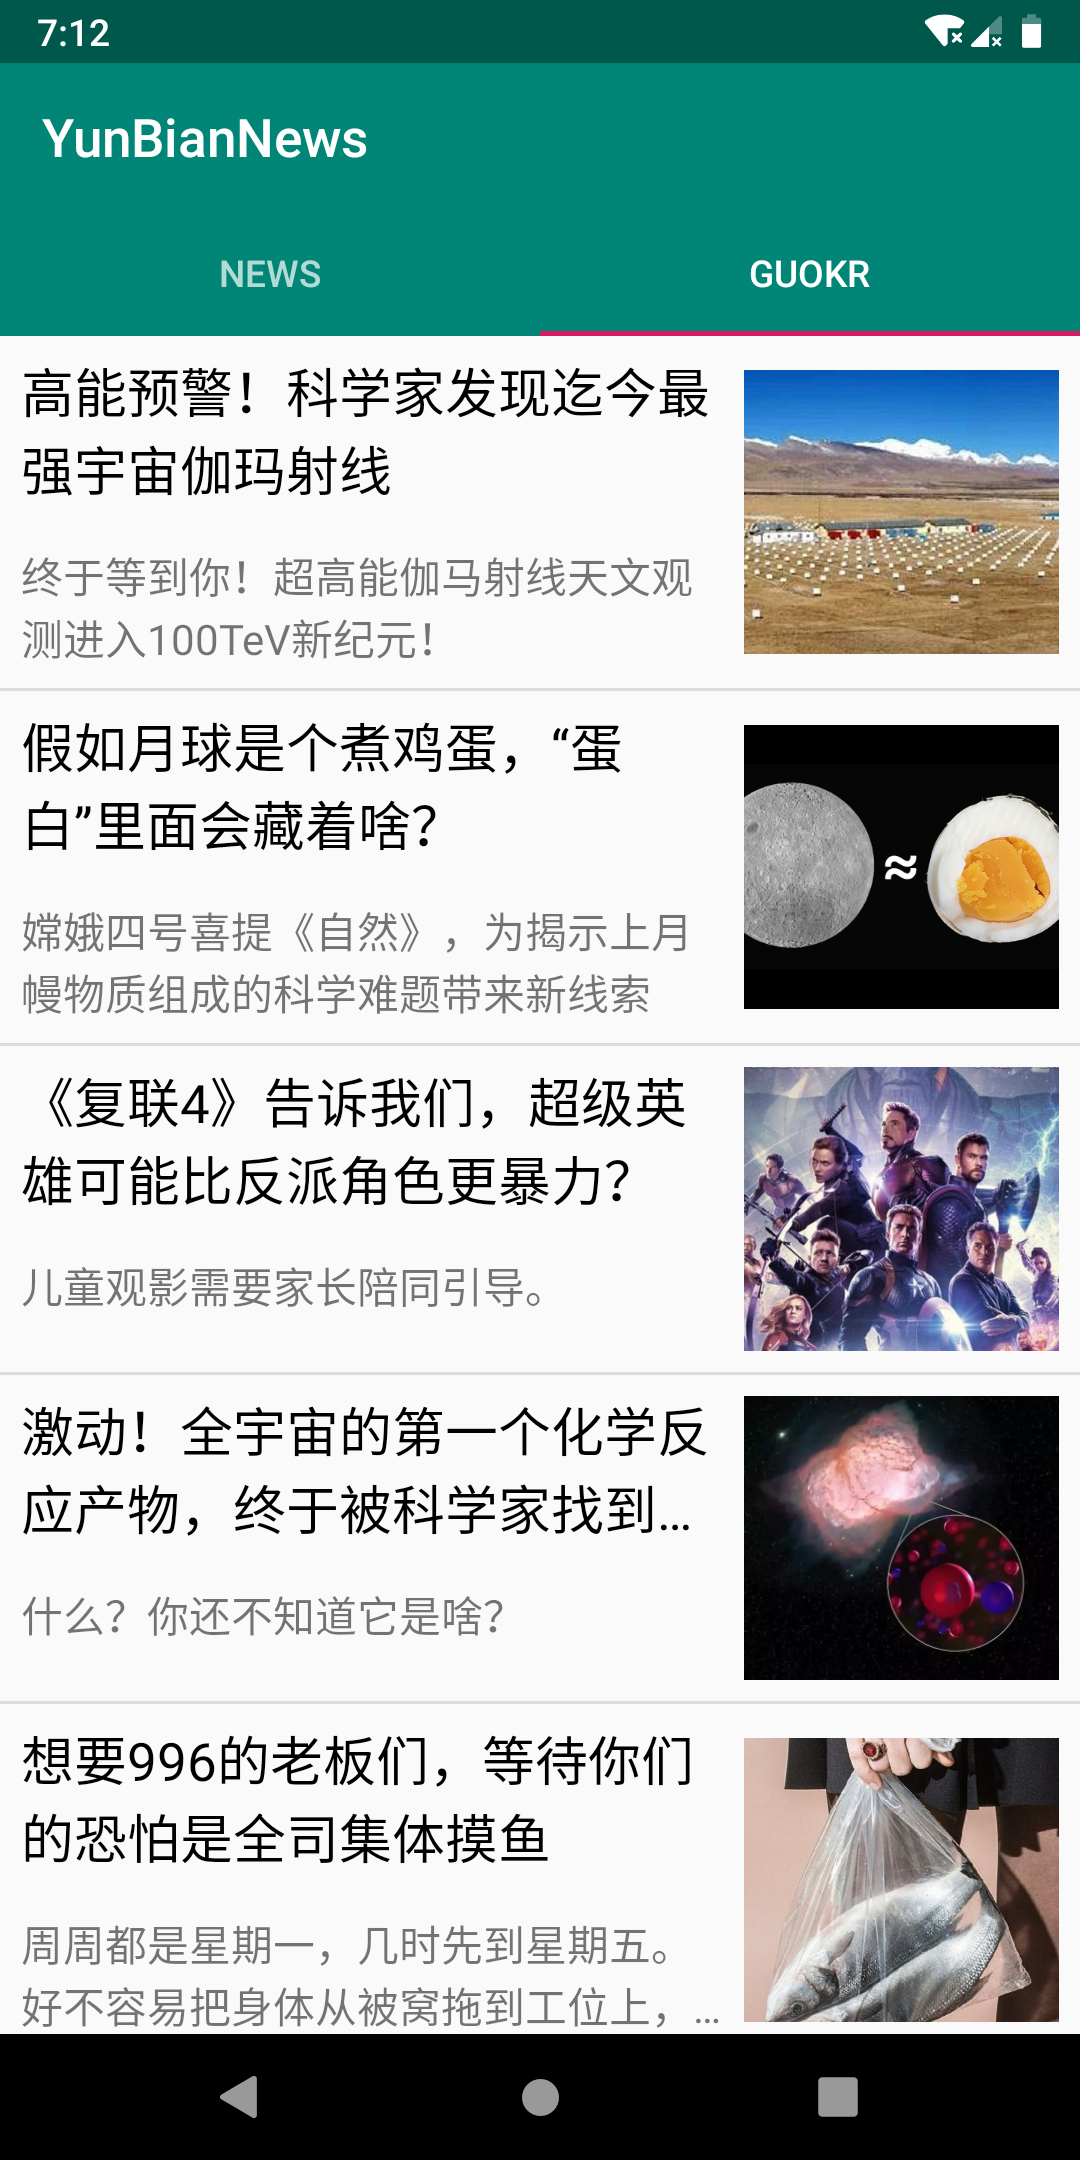
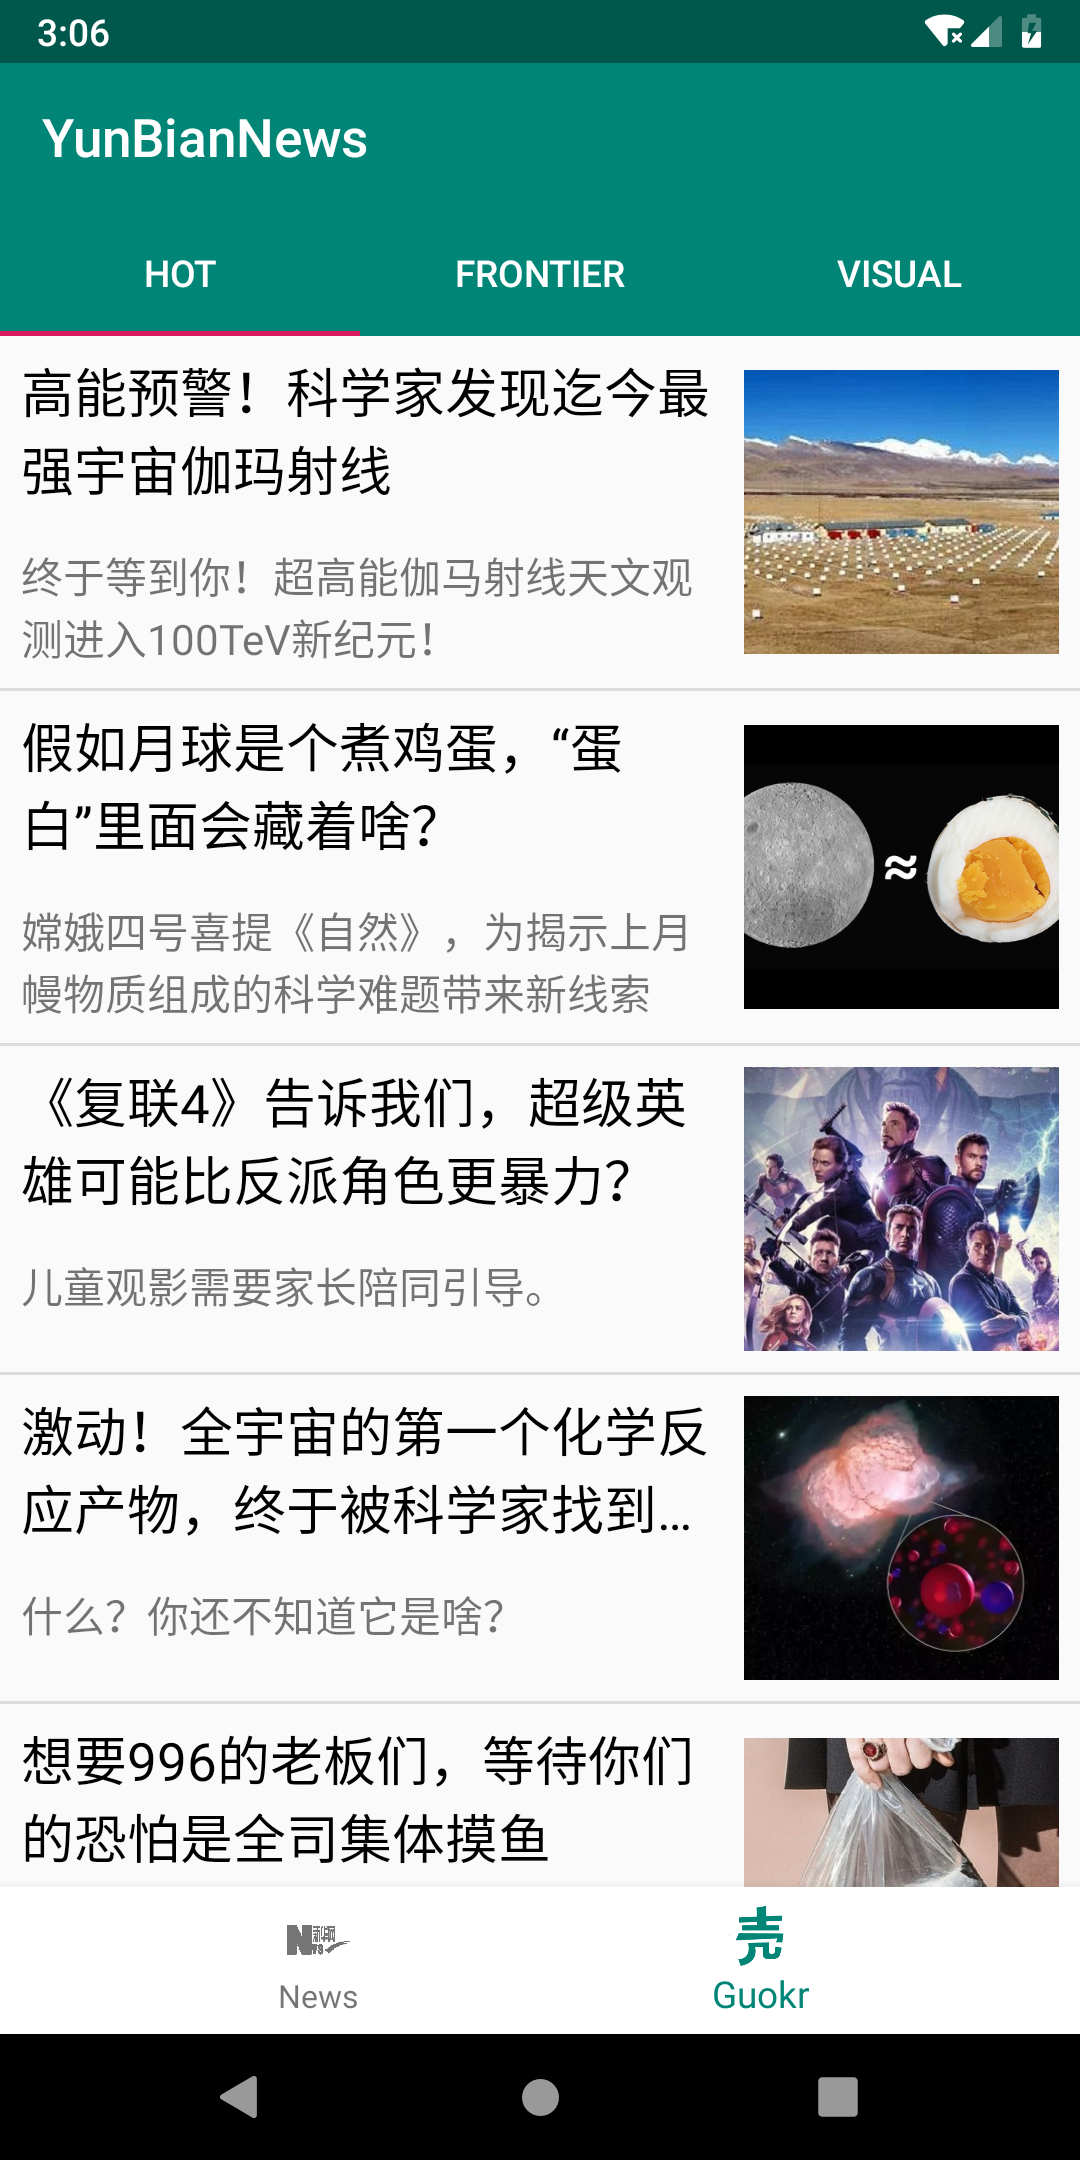
fix the problem about app crashes after rotationg screen and add quick refresh

diff --git a/app/src/main/java/com/petits_raids/yunbiannews/ui/activity/MainActivity.java b/app/src/main/java/com/petits_raids/yunbiannews/ui/activity/MainActivity.java
@@ -11,9 +11,7 @@ import androidx.viewpager.widget.ViewPager;
 import com.google.android.material.bottomnavigation.BottomNavigationView;
 import com.petits_raids.yunbiannews.R;
 import com.petits_raids.yunbiannews.support.adapter.ViewPagerAdapter;
-import com.petits_raids.yunbiannews.ui.fragment.guokr.GuokrFragment;
 import com.petits_raids.yunbiannews.ui.fragment.guokr.GuokrPagerFragment;
-import com.petits_raids.yunbiannews.ui.fragment.news.NewsFragment;
 import com.petits_raids.yunbiannews.ui.fragment.news.NewsPagerFragment;
 
 import java.util.ArrayList;
@@ -21,12 +19,13 @@ import java.util.List;
 
 public class MainActivity extends AppCompatActivity {
 
-    private static final String TAG = "MainActivity";
-
     private Toolbar toolbar;
     private BottomNavigationView bottomNavigationView;
+    private NewsPagerFragment newsPagerFragment;
+    private GuokrPagerFragment guokrPagerFragment;
     private ViewPager viewPager;
     private MenuItem menuItem;
+    private int currentPage = 0;
 
     @Override
     protected void onCreate(Bundle savedInstanceState) {
@@ -43,8 +42,10 @@ public class MainActivity extends AppCompatActivity {
         viewPager = findViewById(R.id.view_pager);
 
         List<Fragment> fragmentList = new ArrayList<>();
-        fragmentList.add(new NewsPagerFragment());
-        fragmentList.add(new GuokrPagerFragment());
+        newsPagerFragment = new NewsPagerFragment();
+        guokrPagerFragment = new GuokrPagerFragment();
+        fragmentList.add(newsPagerFragment);
+        fragmentList.add(guokrPagerFragment);
         List<String> titleList = new ArrayList<>();
         titleList.add("News");
         titleList.add("Guokr");
@@ -52,6 +53,7 @@ public class MainActivity extends AppCompatActivity {
         ViewPagerAdapter adapter =
                 new ViewPagerAdapter(getSupportFragmentManager(), fragmentList, titleList);
         viewPager.setAdapter(adapter);
+        viewPager.setOffscreenPageLimit(2);
         viewPager.addOnPageChangeListener(new ViewPager.OnPageChangeListener() {
             @Override
             public void onPageScrolled(int position, float positionOffset, int positionOffsetPixels) {
@@ -78,9 +80,17 @@ public class MainActivity extends AppCompatActivity {
             switch (item.getItemId()) {
                 case R.id.news_navigation:
                     viewPager.setCurrentItem(0, true);
+                    if (currentPage == 0) {
+                        newsPagerFragment.refreshData();
+                    }
+                    currentPage = 0;
                     break;
                 case R.id.guokr_navigation:
                     viewPager.setCurrentItem(1, true);
+                    if (currentPage == 1) {
+                        guokrPagerFragment.refreshData();
+                    }
+                    currentPage = 1;
                     break;
                 default:
                     break;

diff --git a/app/src/main/java/com/petits_raids/yunbiannews/ui/fragment/news/NewsFragment.java b/app/src/main/java/com/petits_raids/yunbiannews/ui/fragment/news/NewsFragment.java
@@ -26,18 +26,12 @@ import java.util.List;
 
 public class NewsFragment extends Fragment {
 
-    private static final String TAG = "NewsFragment";
-
     private NewsViewModel newsViewModel;
     private NewsAdapter adapter;
     private List<News> newsList = new ArrayList<>();
     private SwipeRefreshLayout swipeRefresh;
     private boolean isRefreshing;
     private int newsType;
-
-    NewsFragment(int newsType) {
-        this.newsType = newsType;
-    }
 
     @Nullable
     @Override
@@ -51,6 +45,9 @@ public class NewsFragment extends Fragment {
                 new DividerItemDecoration(getContext(), manager.getOrientation());
         recyclerView.addItemDecoration(decoration);
 
+        if (getArguments() != null) {
+            newsType = getArguments().getInt("type");
+        }
         newsViewModel = ViewModelProviders.of(this).get(NewsViewModel.class);
         newsViewModel.setType(getNewsType());
         newsViewModel.getAllNews();
@@ -68,6 +65,7 @@ public class NewsFragment extends Fragment {
             if (isRefreshing) {
                 swipeRefresh.setRefreshing(false);
                 isRefreshing = false;
+                recyclerView.smoothScrollToPosition(0);
                 Toast.makeText(getContext(), R.string.data_updated, Toast.LENGTH_SHORT).show();
             }
         };
@@ -75,19 +73,17 @@ public class NewsFragment extends Fragment {
 
         swipeRefresh = view.findViewById(R.id.swipe_refresh);
         swipeRefresh.setColorSchemeResources(R.color.colorAccent);
-        swipeRefresh.setOnRefreshListener(() -> {
-            newsViewModel.updateNews();
-            isRefreshing = true;
-            swipeRefresh.setRefreshing(true);
-        });
+        swipeRefresh.setOnRefreshListener(this::refreshData);
         return view;
     }
 
-    protected void setNewsType(int type) {
-        newsType = type;
+    void refreshData() {
+        newsViewModel.updateNews();
+        isRefreshing = true;
+        swipeRefresh.setRefreshing(true);
     }
 
-    protected int getNewsType() {
+    private int getNewsType() {
         return newsType;
     }
 }

diff --git a/app/src/main/java/com/petits_raids/yunbiannews/ui/fragment/news/NewsPagerFragment.java b/app/src/main/java/com/petits_raids/yunbiannews/ui/fragment/news/NewsPagerFragment.java
@@ -1,5 +1,7 @@
 package com.petits_raids.yunbiannews.ui.fragment.news;
 
+import android.os.Bundle;
+
 import com.petits_raids.yunbiannews.api.NewsApi;
 import com.petits_raids.yunbiannews.ui.fragment.PagerFragment;
 
@@ -7,13 +9,34 @@ public class NewsPagerFragment extends PagerFragment {
 
     @Override
     protected void initFragmentList() {
-        fragmentList.add(new NewsFragment(NewsApi.LOCAL_NEWS));
-        fragmentList.add(new NewsFragment(NewsApi.WORLD_NEWS));
-        fragmentList.add(new NewsFragment(NewsApi.POLITICS_NEWS));
-        fragmentList.add(new NewsFragment(NewsApi.PICTURE_NEWS));
+        NewsFragment localNewsFragment = new NewsFragment();
+        NewsFragment worldNewsFragment = new NewsFragment();
+        NewsFragment politicsNewsFragment = new NewsFragment();
+        NewsFragment pictureNewsFragment = new NewsFragment();
+        Bundle localBundle = new Bundle();
+        localBundle.putInt("type", NewsApi.LOCAL_NEWS);
+        localNewsFragment.setArguments(localBundle);
+        Bundle worldBundle = new Bundle();
+        worldBundle.putInt("type", NewsApi.WORLD_NEWS);
+        worldNewsFragment.setArguments(worldBundle);
+        Bundle politicsBundle = new Bundle();
+        politicsBundle.putInt("type", NewsApi.POLITICS_NEWS);
+        politicsNewsFragment.setArguments(politicsBundle);
+        Bundle pictureBundle = new Bundle();
+        pictureBundle.putInt("type", NewsApi.PICTURE_NEWS);
+        pictureNewsFragment.setArguments(pictureBundle);
+        fragmentList.add(localNewsFragment);
+        fragmentList.add(worldNewsFragment);
+        fragmentList.add(politicsNewsFragment);
+        fragmentList.add(pictureNewsFragment);
         titleList.add("LOCAL");
         titleList.add("WORLD");
         titleList.add("POLITICS");
         titleList.add("PICTURE");
+    }
+
+    public void refreshData() {
+        NewsFragment fragment = (NewsFragment) fragmentList.get(getCurrentPage());
+        fragment.refreshData();
     }
 }

diff --git a/app/src/main/java/com/petits_raids/yunbiannews/ui/fragment/guokr/GuokrFragment.java b/app/src/main/java/com/petits_raids/yunbiannews/ui/fragment/guokr/GuokrFragment.java
@@ -30,10 +30,7 @@ public class GuokrFragment extends Fragment {
     private GuokrAdapter adapter;
     private boolean isFirst = true;
     private int guokrType;
-
-    GuokrFragment(int guokrType) {
-        this.guokrType = guokrType;
-    }
+    private GuokrItemViewModel guokrItemViewModel;
 
     @Nullable
     @Override
@@ -49,12 +46,16 @@ public class GuokrFragment extends Fragment {
         DividerItemDecoration divider = new DividerItemDecoration(getContext(), manager.getOrientation());
         guokrRecyclerView.addItemDecoration(divider);
 
-        GuokrItemViewModel guokrItemViewModel = ViewModelProviders.of(this).get(GuokrItemViewModel.class);
+        if (getArguments() != null) {
+            guokrType = getArguments().getInt("type");
+        }
+        guokrItemViewModel = ViewModelProviders.of(this).get(GuokrItemViewModel.class);
         guokrItemViewModel.setType(guokrType);
         guokrItemViewModel.liveGuokrItemList.observe(this, guokrItems -> {
             guokrItemList.clear();
             guokrItemList.addAll(guokrItems);
             adapter.notifyDataSetChanged();
+            guokrRecyclerView.smoothScrollToPosition(0);
             if (isFirst)
                 return;
             refreshLayout.setRefreshing(false);
@@ -63,15 +64,14 @@ public class GuokrFragment extends Fragment {
 
         refreshLayout = view.findViewById(R.id.guokr_swipe_refresh);
         refreshLayout.setColorSchemeResources(R.color.colorAccent);
-        refreshLayout.setOnRefreshListener(() -> {
-            guokrItemViewModel.updateGuokrItem();
-            refreshLayout.setRefreshing(true);
-            isFirst = false;
-        });
+        refreshLayout.setOnRefreshListener(this::refreshData);
         return view;
     }
 
-//    private int getGuokrType() {
-//        return guokrType;
-//    }
+    void refreshData() {
+        guokrItemViewModel.updateGuokrItem();
+        refreshLayout.setRefreshing(true);
+        isFirst = false;
+    }
+
 }

diff --git a/app/src/main/java/com/petits_raids/yunbiannews/ui/fragment/guokr/GuokrPagerFragment.java b/app/src/main/java/com/petits_raids/yunbiannews/ui/fragment/guokr/GuokrPagerFragment.java
@@ -1,16 +1,35 @@
 package com.petits_raids.yunbiannews.ui.fragment.guokr;
 
+import android.os.Bundle;
+
 import com.petits_raids.yunbiannews.api.GuokrApi;
 import com.petits_raids.yunbiannews.ui.fragment.PagerFragment;
 
 public class GuokrPagerFragment extends PagerFragment {
     @Override
     protected void initFragmentList() {
-        fragmentList.add(new GuokrFragment(GuokrApi.HOT));
-        fragmentList.add(new GuokrFragment(GuokrApi.FRONTIER));
-        fragmentList.add(new GuokrFragment(GuokrApi.VISUAL));
+        GuokrFragment hotGuokrFragment = new GuokrFragment();
+        GuokrFragment frontierGuokrFragment = new GuokrFragment();
+        GuokrFragment visualGuokrFragment = new GuokrFragment();
+        Bundle hotBundle = new Bundle();
+        hotBundle.putInt("type", GuokrApi.HOT);
+        hotGuokrFragment.setArguments(hotBundle);
+        Bundle frontierBundle = new Bundle();
+        frontierBundle.putInt("type", GuokrApi.FRONTIER);
+        frontierGuokrFragment.setArguments(frontierBundle);
+        Bundle visualBundle = new Bundle();
+        visualBundle.putInt("type", GuokrApi.VISUAL);
+        visualGuokrFragment.setArguments(visualBundle);
+        fragmentList.add(hotGuokrFragment);
+        fragmentList.add(frontierGuokrFragment);
+        fragmentList.add(visualGuokrFragment);
         titleList.add("HOT");
         titleList.add("FRONTIER");
         titleList.add("VISUAL");
+    }
+
+    public void refreshData() {
+        GuokrFragment fragment = (GuokrFragment) fragmentList.get(getCurrentPage());
+        fragment.refreshData();
     }
 }

diff --git a/app/src/main/java/com/petits_raids/yunbiannews/ui/fragment/PagerFragment.java b/app/src/main/java/com/petits_raids/yunbiannews/ui/fragment/PagerFragment.java
@@ -21,6 +21,7 @@ public abstract class PagerFragment extends Fragment {
 
     private TabLayout tabLayout;
     private ViewPager viewPager;
+    private int currentPage;
     protected List<Fragment> fragmentList = new ArrayList<>();
     protected List<String> titleList = new ArrayList<>();
 
@@ -40,6 +41,26 @@ public abstract class PagerFragment extends Fragment {
         initFragmentList();
         ViewPagerAdapter adapter = new ViewPagerAdapter(getChildFragmentManager(), fragmentList, titleList);
         viewPager.setAdapter(adapter);
+        viewPager.addOnPageChangeListener(new ViewPager.OnPageChangeListener() {
+            @Override
+            public void onPageScrolled(int position, float positionOffset, int positionOffsetPixels) {
+
+            }
+
+            @Override
+            public void onPageSelected(int position) {
+                currentPage = position;
+            }
+
+            @Override
+            public void onPageScrollStateChanged(int state) {
+
+            }
+        });
+    }
+
+    protected int getCurrentPage() {
+        return currentPage;
     }
 
     protected abstract void initFragmentList();

diff --git a/app/src/main/java/com/petits_raids/yunbiannews/YunBianApplication.java b/app/src/main/java/com/petits_raids/yunbiannews/YunBianApplication.java
@@ -3,6 +3,8 @@ package com.petits_raids.yunbiannews;
 import android.app.Application;
 import android.content.Context;
 
+import com.squareup.leakcanary.LeakCanary;
+
 public class YunBianApplication extends Application {
 
     private static Context mContext;
@@ -11,6 +13,10 @@ public class YunBianApplication extends Application {
     public void onCreate() {
         super.onCreate();
         mContext = getApplicationContext();
+        if (LeakCanary.isInAnalyzerProcess(this)) {
+            return;
+        }
+        LeakCanary.install(this);
     }
 
     public static Context getContext() {

diff --git a/app/src/main/java/com/petits_raids/yunbiannews/ui/activity/WebViewActivity.java b/app/src/main/java/com/petits_raids/yunbiannews/ui/activity/WebViewActivity.java
@@ -41,6 +41,10 @@ public class WebViewActivity extends AppCompatActivity {
     @Override
     protected void onDestroy() {
         super.onDestroy();
+        webView.stopLoading();
+        webView.getSettings().setJavaScriptEnabled(false);
+        webView.clearHistory();
+        webView.removeAllViews();
         webView.destroy();
     }
 }
